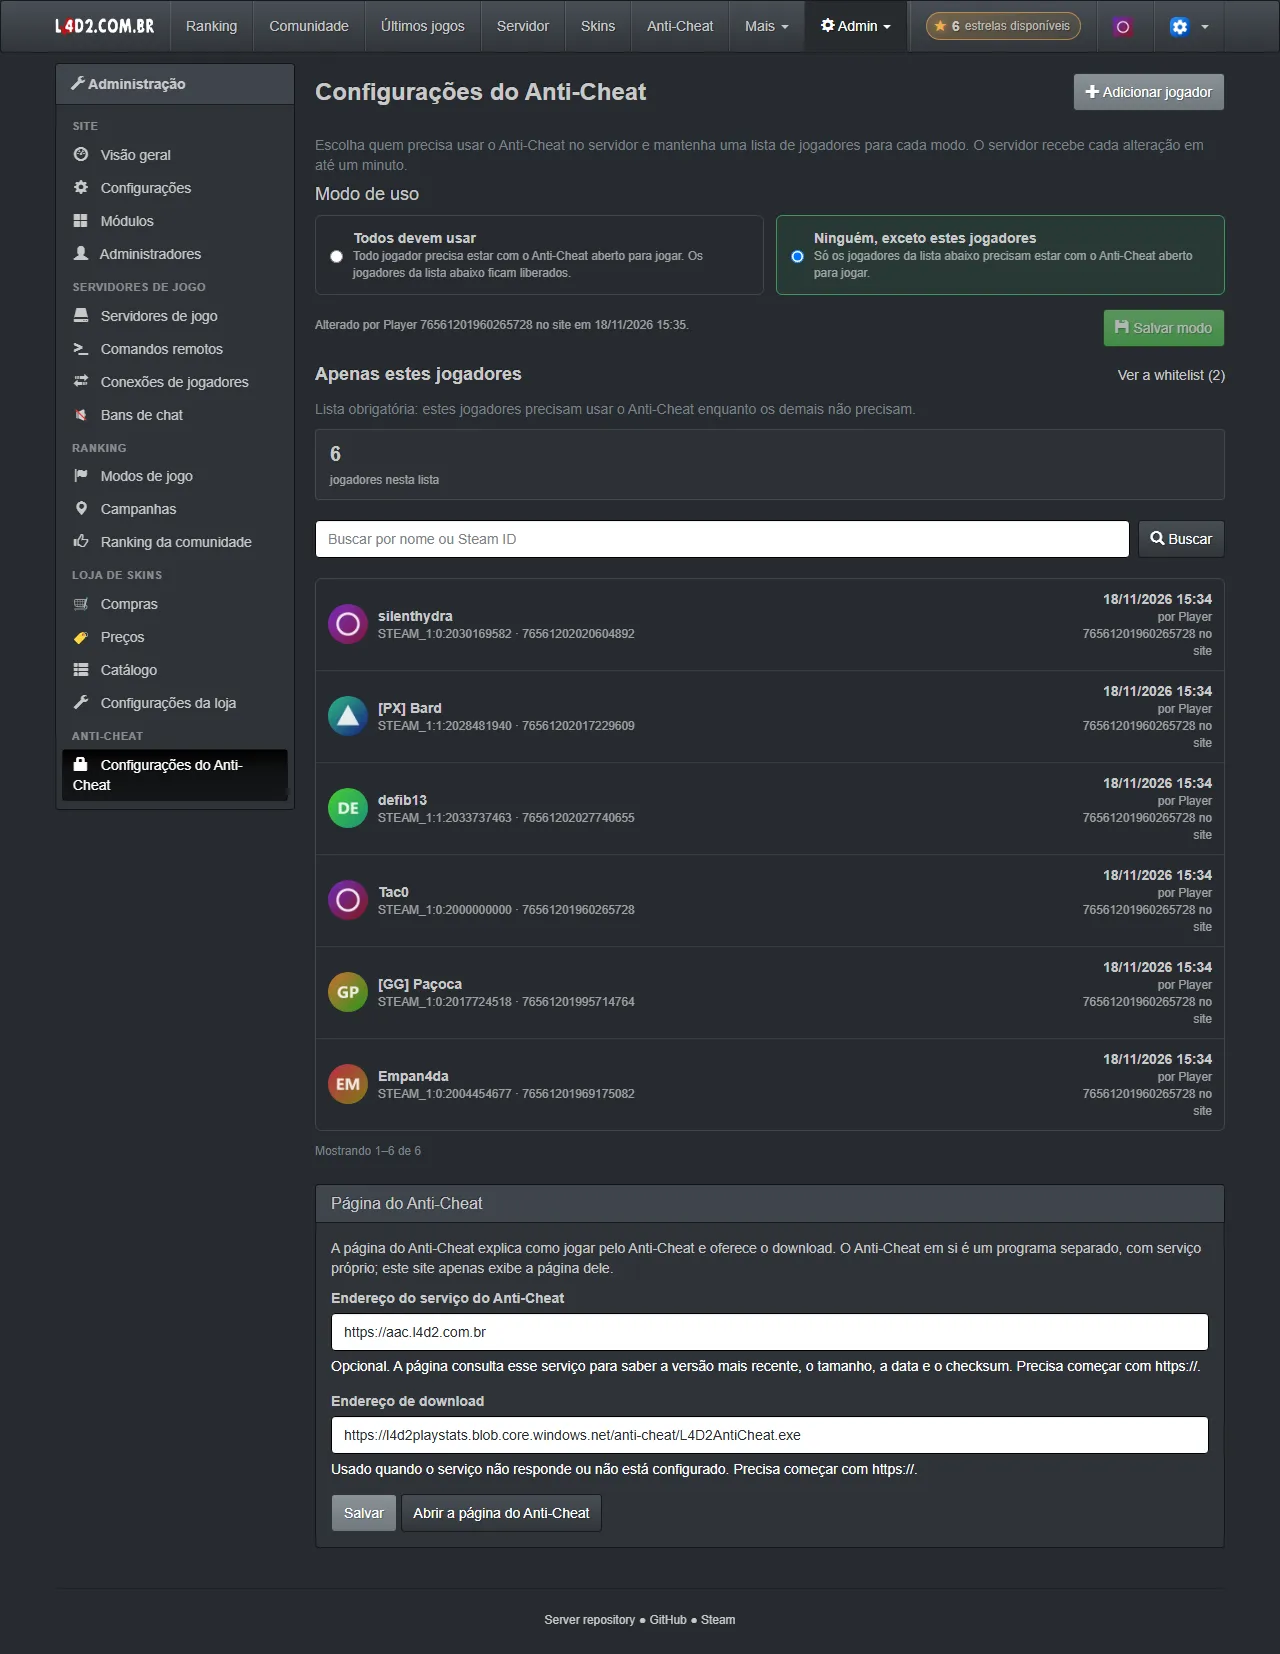
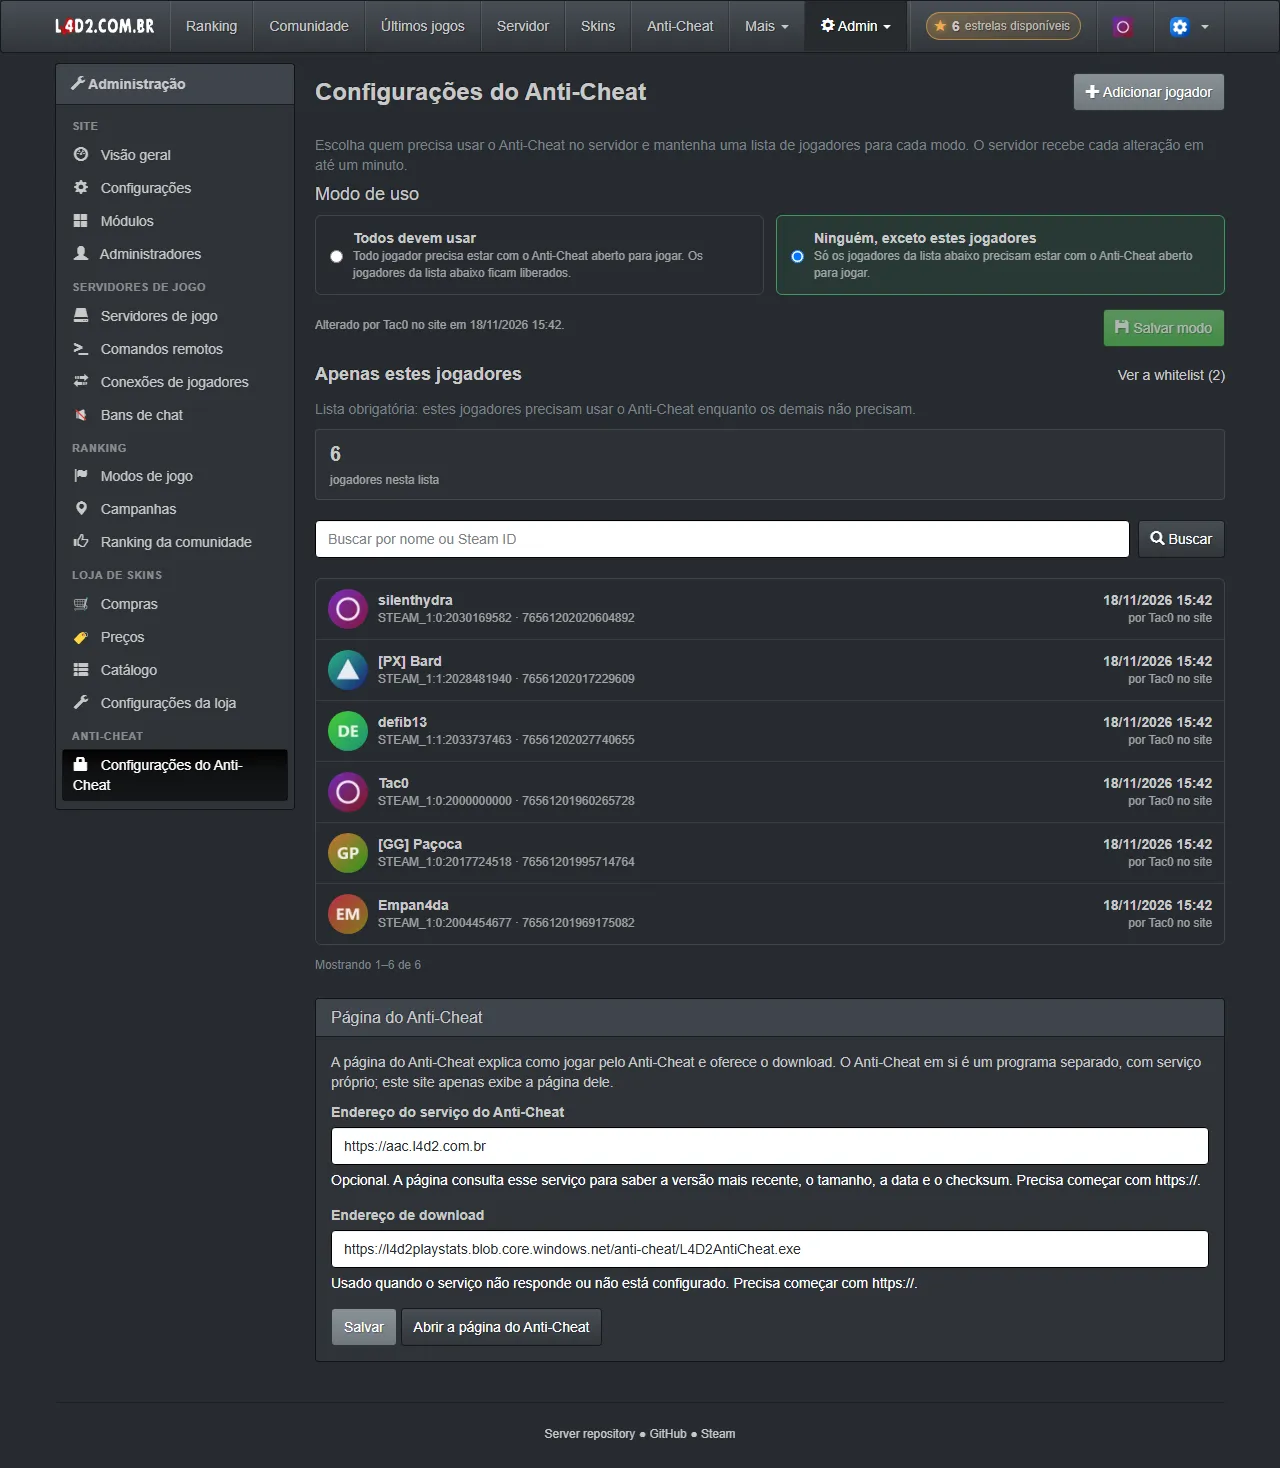
Sign in through the development sign-in with the name the site knows for the player, falling back to Player <SteamID64>, and retake the Anti-Cheat settings screenshots in the three languages

diff --git a/src/L4D2PlayStats.Hub.Web/Program.cs b/src/L4D2PlayStats.Hub.Web/Program.cs
@@ -3,6 +3,7 @@ using CoreConsts = L4D2PlayStats.Hub.Core.AppConsts;
 using System.Text.Json.Serialization;
 using AspNet.Security.OpenId.Steam;
 using L4D2PlayStats.Hub.Core.DependencyInjection;
+using L4D2PlayStats.Hub.Core.Modules.Players.Services;
 using L4D2PlayStats.Hub.Web;
 using L4D2PlayStats.Hub.Web.Infrastructure.Authentication;
 using L4D2PlayStats.Hub.Web.Infrastructure.Avatars;
@@ -129,7 +130,9 @@ app.MapControllers();
 if (app.Environment.IsDevelopment() && app.Configuration.GetValue<bool>(AppConsts.DevelopmentSignInSetting))
     app.MapGet("/dev/sign-in/{communityId:long}", async (long communityId, string? returnUrl, HttpContext httpContext) =>
     {
-        var claims = new[] { new Claim(ClaimTypes.NameIdentifier, communityId.ToString()), new Claim(ClaimTypes.Name, $"Player {communityId}") };
+        var knownName = await httpContext.RequestServices.GetRequiredService<IPlayerNameService>().KnownNameAsync(communityId, httpContext.RequestAborted);
+        var name = string.IsNullOrWhiteSpace(knownName) ? string.Format(AppConsts.DevelopmentSignInNameFormat, communityId) : knownName;
+        var claims = new[] { new Claim(ClaimTypes.NameIdentifier, communityId.ToString()), new Claim(ClaimTypes.Name, name) };
         var principal = new ClaimsPrincipal(new ClaimsIdentity(claims, CookieAuthenticationDefaults.AuthenticationScheme));
 
         await httpContext.SignInAsync(CookieAuthenticationDefaults.AuthenticationScheme, principal, new AuthenticationProperties { IsPersistent = true });

diff --git a/src/L4D2PlayStats.Hub.Web/AppConsts.cs b/src/L4D2PlayStats.Hub.Web/AppConsts.cs
@@ -104,6 +104,7 @@ public static partial class AppConsts
     public const string AdminAddAction = "add";
 
     public const string DevelopmentSignInSetting = "Development:AllowTestSignIn";
+    public const string DevelopmentSignInNameFormat = "Player {0}";
     public const string SteamOpenIdPattern = @"openid/id/(\d+)$";
 
     public const string HtmxRequestHeader = "HX-Request";

diff --git a/tools/screenshots/README.es.md b/tools/screenshots/README.es.md
@@ -69,7 +69,7 @@ node tools/screenshots/capture.js site --base http://localhost:5103 --lang en --
 
 Antes de las capturas del servidor en vivo envía la partida en vivo de cada servidor, como lo hacen los plugins, con los jugadores de la parte de arriba del ranking del sitio, y espera el retraso de la página en vivo. Reinicia el sitio antes de cada idioma, para que el chat en vivo empiece vacío. Antes de las capturas de la tienda reembolsa las compras del jugador y luego compra la primera skin que el jugador puede pagar. Las capturas del baneo del chat agregan un baneo para `--banned`. Antes de la captura de los ajustes del Anti-Cheat pone a los dos primeros jugadores del ranking en la whitelist y a los seis siguientes en la lista obligatoria, y guarda el modo.
 
-El inicio de sesión de desarrollo no tiene nombre de Steam, así que el menú, las compras y los registros de auditoría muestran `Player <SteamID64>` para el usuario que inició sesión.
+El inicio de sesión de desarrollo no tiene nombre de Steam, así que usa el nombre que el sitio conoce para ese jugador. El menú, las compras y los registros de auditoría solo muestran `Player <SteamID64>` para un usuario que el sitio no conoce.
 
 ## Las ventanas de terminal
 

diff --git a/tools/screenshots/README.pt.md b/tools/screenshots/README.pt.md
@@ -69,7 +69,7 @@ node tools/screenshots/capture.js site --base http://localhost:5103 --lang en --
 
 Antes das capturas do servidor ao vivo, ela envia a partida ao vivo de cada servidor, do jeito que os plugins fazem, com os jogadores do topo do ranking do site, e espera o atraso da página ao vivo. Reinicie o site antes de cada idioma, para que o chat ao vivo comece vazio. Antes das capturas da loja, ela faz o reembolso das compras do jogador e depois compra a primeira skin que o jogador consegue pagar. As capturas de banimento do chat adicionam um banimento para o `--banned`. Antes da captura das configurações do Anti-Cheat, ela coloca os dois primeiros jogadores do ranking na whitelist e os seis seguintes na lista obrigatória, e salva o modo.
 
-O login de desenvolvimento não tem nome do Steam, então o menu, as compras e os registros de auditoria mostram `Player <SteamID64>` para o usuário logado.
+O login de desenvolvimento não tem nome do Steam, então ele usa o nome que o site conhece para esse jogador. O menu, as compras e os registros de auditoria só mostram `Player <SteamID64>` para um usuário que o site não conhece.
 
 ## As janelas de terminal
 

diff --git a/tools/screenshots/README.md b/tools/screenshots/README.md
@@ -69,7 +69,7 @@ node tools/screenshots/capture.js site --base http://localhost:5103 --lang en --
 
 Before the live server shots it sends the live match of each server, the way the plugins do, with the players at the top of the ranking of the site, and waits for the delay of the live page. Restart the site before each language, so the live chat starts empty. Before the shop shots it refunds the purchases of the player, then buys the first skin the player can afford. The chat ban shots add a ban for `--banned`. Before the Anti-Cheat settings shot it puts the first two players of the ranking on the whitelist and the next six on the required list, and saves the mode.
 
-The development sign-in has no Steam name, so the menu, the purchases and the audit logs show `Player <SteamID64>` for the signed-in user.
+The development sign-in has no Steam name, so it uses the name the site knows for that player. The menu, the purchases and the audit logs show `Player <SteamID64>` only for a user the site does not know.
 
 ## The terminal windows
 
